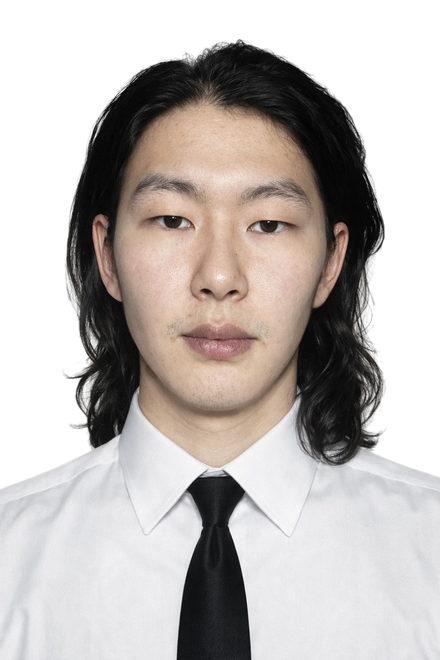
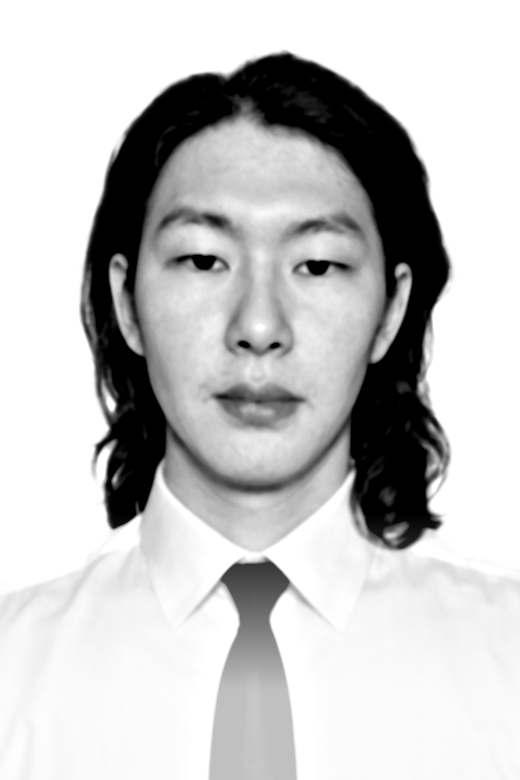
Remove face photo strip, clean up dot portrait
Softened, feature-focused portrait source and even dot sizes once assembled.

diff --git a/css/style.css b/css/style.css
@@ -177,14 +177,12 @@ body.is-loading .rail { opacity: 0; }
   text-shadow: 0 2px 28px var(--shade);
 }
 .block.is-active { visibility: visible; transition: visibility 0s; }
-.block.is-active a,
-.block.is-active .faces li { pointer-events: auto; }
+.block.is-active a { pointer-events: auto; }
 .block .kicker,
 .block p,
 .block .facts,
 .block .mail,
 .block .resume,
-.block .faces li,
 .block .socials {
   opacity: 0; transform: translate3d(0, 14px, 0);
   transition: opacity 0.4s, transform 0.5s var(--ease);
@@ -198,10 +196,6 @@ body.is-loading .rail { opacity: 0; }
 .block.is-active .socials {
   opacity: 1; transform: none;
   transition: opacity 0.9s 0.45s, transform 1.1s var(--ease) 0.4s;
-}
-.block.is-active .faces li {
-  opacity: 1; transform: none;
-  transition: opacity 0.8s calc(0.55s + var(--i, 0) * 0.06s), transform 1s var(--ease) calc(0.5s + var(--i, 0) * 0.06s);
 }
 .block .kicker { color: var(--muted); margin: 0 0 22px; display: flex; gap: 18px; }
 .block .kicker::before { content: ''; width: 28px; height: 1px; background: currentColor; align-self: center; }
@@ -225,10 +219,6 @@ body.is-scrolled .scroll-hint { opacity: 0; transition: opacity 0.5s; }
 .block .body { font-size: clamp(16px, 1.25vw, 20px); line-height: 1.5; color: var(--muted); margin: 28px 0 0; max-width: 30em; }
 .block .meta { margin: 26px 0 0; font-size: 15px; display: flex; gap: 12px; align-items: baseline; }
 .block .meta span { color: var(--faint); }
-.faces { list-style: none; display: flex; flex-wrap: wrap; gap: 10px; margin: 30px 0 0; padding: 0; }
-.faces li { width: 62px; aspect-ratio: 1; border-radius: 14px; overflow: hidden; border: 1px solid var(--line); background: var(--line); }
-.faces img { width: 100%; height: 100%; object-fit: cover; display: block; transition: transform 0.6s var(--ease); }
-.faces li:hover img { transform: scale(1.12); }
 
 .block-project { width: min(31vw, 520px); }
 .block-project.side-right { left: auto; right: calc(6vw + 24px); }
@@ -508,8 +498,6 @@ body.lite #lite { display: block; padding: 48px var(--pad); max-width: 860px; ma
   .block-project .display { font-size: clamp(34px, 11vw, 52px); }
   .block .kicker { margin-bottom: 14px; }
   .block .body { margin-top: 16px; font-size: 15px; }
-  .faces { margin-top: 18px; gap: 6px; flex-wrap: nowrap; }
-  .faces li { width: 38px; border-radius: 9px; }
   .block-project .tagline { margin-top: 12px; font-size: 17px; }
   .block-project .desc { display: none; }
   .block-project .display { font-size: clamp(30px, 9.5vw, 46px); }

diff --git a/js/config.js b/js/config.js
@@ -1,7 +1,6 @@
 // ─────────────────────────────────────────────────────────────
 //  Бүх агуулгыг ЭНДЭЭС засна. (Edit all content here.)
 //  - Зураг: assets/portrait.png (байхгүй бол түр дүрс гарна)
-//  - Нүүрний жижиг зургууд: assets/me/*.jpg
 //  - Төслийн зураг: assets/projects/*.jpg  (image: null бол автоматаар зурна)
 // ─────────────────────────────────────────────────────────────
 
@@ -32,17 +31,6 @@ export const site = {
       'Every project is a climb: start on solid ground, then keep going until the view opens up.',
   },
 
-  // About хэсэгт гарах жижиг зургууд
-  photos: [
-    { src: 'assets/me/steppe.jpg', alt: 'Tugsbileg in the countryside at sunset' },
-    { src: 'assets/me/gaming.jpg', alt: 'Tugsbileg smiling at a gaming tournament' },
-    { src: 'assets/me/ger.jpg', alt: 'Tugsbileg inside a ger' },
-    { src: 'assets/me/office.jpg', alt: 'Tugsbileg with glasses and a cap' },
-    { src: 'assets/me/mirror.jpg', alt: 'Mirror selfie of Tugsbileg' },
-    { src: 'assets/me/waves.jpg', alt: 'Mirror selfie of Tugsbileg with wavy hair' },
-    { src: 'assets/me/barber.jpg', alt: 'Tugsbileg at the barber' },
-  ],
-
   outro: {
     kicker: 'Next destination',
     title: ["Let's build", 'something', 'together.'],
@@ -69,8 +57,8 @@ export const site = {
 
   // Хөрөг зураг. Цайвар/энгийн дэвсгэртэй, нүүр нь сайн гэрэлтэй зураг хамгийн гоё харагдана.
   portrait: {
-    src: 'assets/portrait.png', // цагаан дэвсгэрийг хассан (transparent)
-    contrast: 1.25, // 1 = original
+    src: 'assets/portrait.png', // дэвсгэргүй, зөөлрүүлж тодруулсан хар-цагаан
+    contrast: 1.1, // 1 = original
     depth: 7,       // how tall the "mountain relief" of the face is
   },
 };

diff --git a/js/main.js b/js/main.js
@@ -51,11 +51,6 @@ function fillContent() {
   $$('[data-initial]').forEach((el) => (el.textContent = site.name[0]));
   $$('[data-email]').forEach((el) => { el.textContent = site.email; el.href = `mailto:${site.email}`; });
   $$('[data-resume]').forEach((el) => { if (site.resume) el.href = site.resume; else el.remove(); });
-  $$('[data-faces]').forEach((el) => {
-    el.innerHTML = (site.photos || [])
-      .map((p, i) => `<li style="--i:${i}"><img src="${p.src}" alt="${p.alt}" loading="lazy" decoding="async" /></li>`)
-      .join('');
-  });
   $$('[data-location]').forEach((el) => (el.textContent = site.location));
   $$('[data-socials]').forEach((el) => {
     el.innerHTML = site.socials.map((s) => `<a href="${s.url}" target="_blank" rel="noopener">${s.label}</a>`).join('');

diff --git a/js/mountains.js b/js/mountains.js
@@ -189,7 +189,7 @@ const vertex = /* glsl */ `
     mv.xy += dv / (sqrt(md2) + 1e-4) * pf * vDepth * 0.05;
     gl_Position = projectionMatrix * mv;
 
-    float size = uSize * (0.6 + aRand.y * 0.8);
+    float size = uSize * mix(0.6 + aRand.y * 0.8, 0.85 + aRand.y * 0.3, t * isP); // even dots once assembled
     size *= mix(1.0, mix(0.75 + lumN * 0.6, 0.8 + (1.0 - aLum) * 0.5, uDay), t * isP);
     size *= 1.0 + pf * 0.9;
     gl_PointSize = clamp(size * uScale / vDepth, 1.0, 26.0);

diff --git a/index.html b/index.html
@@ -94,7 +94,6 @@
       <h2 class="display"></h2>
       <p class="body"></p>
       <p class="meta"><span>Based in</span> <b data-location></b></p>
-      <ul class="faces" data-faces></ul>
     </section>
 
     <section class="block block-work" data-block="work" id="projects">
